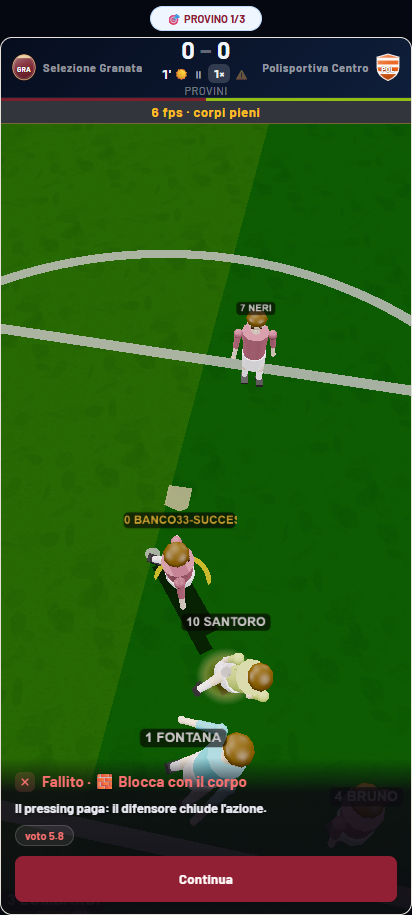
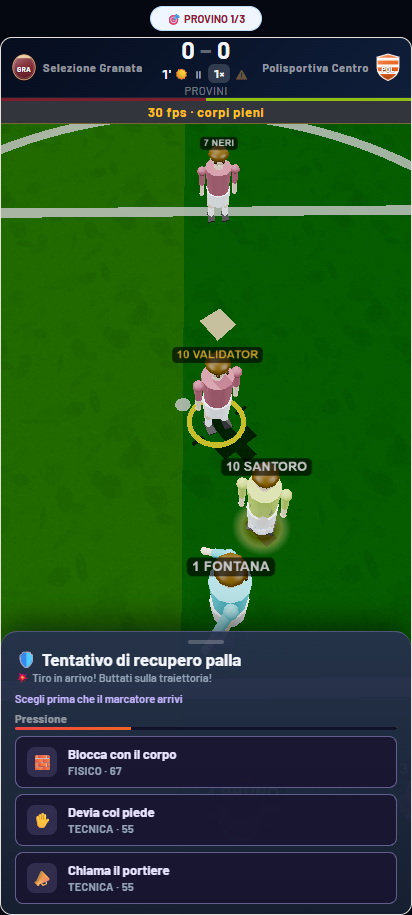
Registra prova orologio e nuovi casi difesa 3D

diff --git a/reports/codex/2026-10-02-banco-deterministico.md b/reports/codex/2026-10-02-banco-deterministico.md
@@ -38,6 +38,21 @@ Il checkpoint ora contiene **101 tentativi**, di cui **5 validi con il nuovo oro
 
 I due giri success hanno gli stessi conteggi, ma il metodo non è ancora ripetibile sugli esiti fail: la differenza del punto di partenza è circa 25 unità sull'asse x e cambia il conteggio fuori quadro. Aspettare 500 ms virtuali non garantisce che il commit di staging del gioco sia arrivato. Il codice del gioco descrive esplicitamente lo staging come commit React successivo (`src/15-live-match.jsx:1599-1605`, `src/12-three-match-view.jsx:3485-3498`): questa è una possibile spiegazione del rumore del banco, non una causa dimostrata per questi cinque casi. La sonda conserva ogni tentativo e non assegna 001/002/003 da dati non separabili. La modalità sperimentale `target-aligned`, che attende il bersaglio logico aggiornato e la mesh entro 2u, è stata aggiunta ma **non eseguita**: il controllo pre-avvio ha misurato 2,99 GB liberi, sotto 3,5 GB. I 64 casi richiesti restano aperti; la condizione di avvio deve essere verificata prima di estendere il campione.
 
+### Ripresa del 3 ottobre: orologio verificato e sei scatti
+
+Il comando `node tests/codex/orologio-300.mjs` ha prodotto `tests/codex/orologio-300.json`: 300 callback, 300 fotogrammi nativi, 300 passi virtuali, 10.000 ms virtuali. Il controllo dell'orologio è valido per questa esecuzione. Prima del lotto `node -e "console.log((require('os').freemem()/2**30).toFixed(2))"` indicava 4,44 GB liberi. È stata allineata anche la guardia interna della sonda alla soglia di 3,5 GB prima di ogni caso 3D; il lotto si è interrotto due volte alla soglia e ha conservato il checkpoint.
+
+Comando del lotto, dalla radice: `$env:CPM_SETTLE_MODE='fixed-45-frames'; node tests/codex/banco-difesa-3d.mjs`. I quattro casi qui sotto hanno `ActionResolved` concorde e sei scatti. Il banco fissa l'azione dopo 45 fotogrammi in `hl_choose`.
+
+| gi33 success | Letture | Eroe fuori | Pallone fuori | Posizione logica del pallone alla risoluzione |
+| --- | ---: | ---: | ---: | --- |
+| Procedurale r0 | 114 | 0 | non registrato dal testimone | 9,73; 52,18 |
+| Procedurale r1 | 97 | 0 | 80 | 58,48; 54,44 |
+| GLB r0 | 119 | 16 | 99 | 50,20; 55,05 |
+| GLB r1 | 101 | 7 | 84 | 51,48; 55,15 |
+
+Le due ripetizioni procedurali partono con il pallone in posizioni molto diverse e la prima non espone `bfuori`; questo **non prova la ripetibilità** del banco né un difetto del gioco. Le due ripetizioni GLB mostrano anch'esse differenze nei conteggi. I PNG e il grezzo sono in `reports/codex/banco-difesa-3d/` e `tests/codex/banco-difesa-3d.json.gz`. Rimangono da acquisire gli altri casi e da valutare visivamente 001/002/003; nessun nuovo codice viene attribuito da questa serie parziale.
+
 ## B. Europeo del seme 6
 
 La sonda `tests/codex/banco-europeo-181.mjs` riprende il banco carriere esterno con `__CPM_SIM_NAT=1`, forza il seme 6, registra i passi fra S8/W19 e W25 e conserva un checkpoint a fine stagione. Il primo avvio è stato interrotto dopo sei stagioni per liberare memoria; la seconda esecuzione dalla stagione 1 è arrivata oltre W24 senza blocco. Dal suo checkpoint S8/W1 sono state poi eseguite due prove appaiate con lo stesso salvataggio: una normale e una con `CPM_RED181=1`. La sonda non azzera il torneo quando compare `blocked:`: in tal caso avrebbe salvato il blocco come esito.
